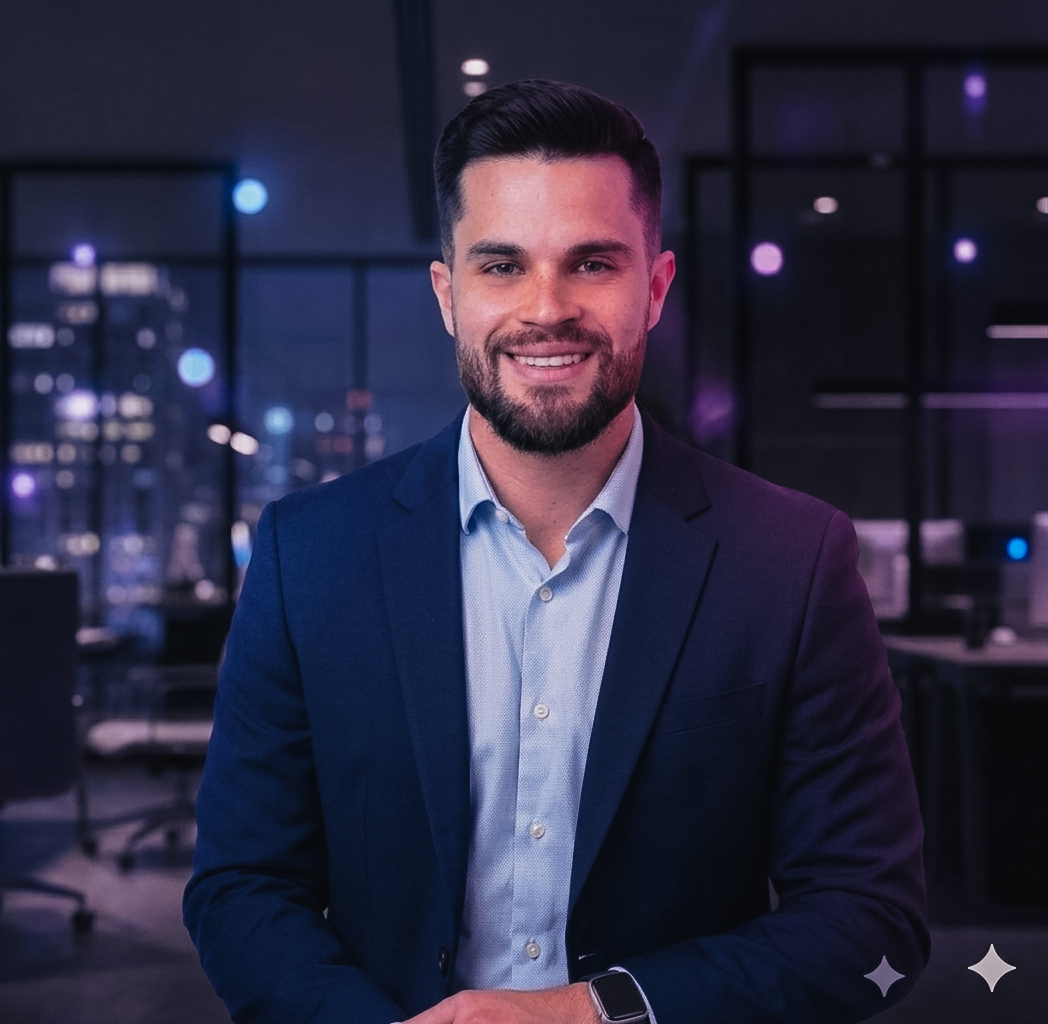
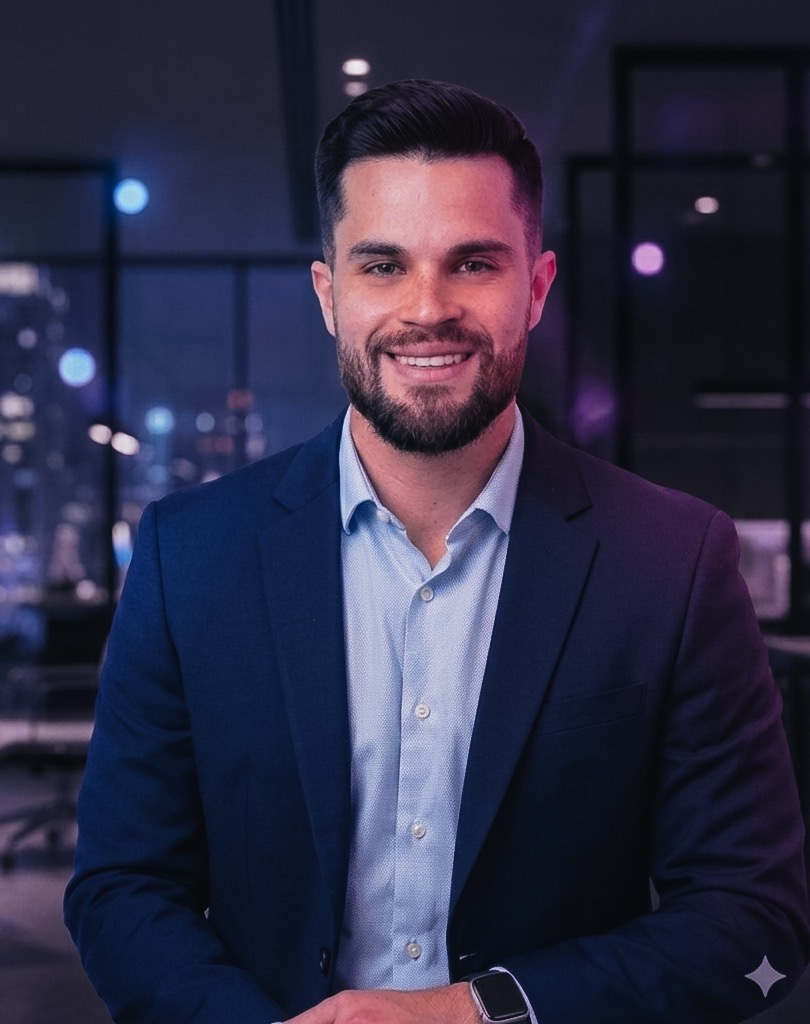
fix: recorte da image_jt_2 para mesmo aspecto retrato da image_jt

diff --git a/index.html b/index.html
@@ -1,10 +1,12 @@
 <!DOCTYPE html>
 <html lang="pt-BR">
+
 <head>
     <meta charset="UTF-8">
     <meta name="viewport" content="width=device-width, initial-scale=1.0">
     <title>João Tomás Venâncio | Portfólio</title>
-    <meta name="description" content="Product Owner e AI Engineer. Fundador da C&T.AI — construindo agentes de IA, pipelines de dados e soluções SaaS.">
+    <meta name="description"
+        content="Product Owner e AI Engineer. Fundador da C&T.AI — construindo agentes de IA, pipelines de dados e soluções SaaS.">
     <style>
         @import url('https://fonts.googleapis.com/css2?family=Inter:wght@400;500;600;700&display=swap');
 
@@ -28,7 +30,11 @@
             --hover-bg: #161b22;
         }
 
-        * { box-sizing: border-box; margin: 0; padding: 0; }
+        * {
+            box-sizing: border-box;
+            margin: 0;
+            padding: 0;
+        }
 
         body {
             font-family: 'Inter', -apple-system, BlinkMacSystemFont, sans-serif;
@@ -74,10 +80,19 @@
             background: var(--hover-bg);
         }
 
-        .ctrl-btn svg { width: 16px; height: 16px; fill: currentColor; }
+        .ctrl-btn svg {
+            width: 16px;
+            height: 16px;
+            fill: currentColor;
+        }
 
-        [data-theme="dark"] .icon-moon { display: none; }
-        :root:not([data-theme="dark"]) .icon-sun { display: none; }
+        [data-theme="dark"] .icon-moon {
+            display: none;
+        }
+
+        :root:not([data-theme="dark"]) .icon-sun {
+            display: none;
+        }
 
         /* Typography */
         h1 {
@@ -109,9 +124,13 @@
             text-decoration: none;
         }
 
-        a:hover { text-decoration: underline; }
+        a:hover {
+            text-decoration: underline;
+        }
 
-        strong { font-weight: 600; }
+        strong {
+            font-weight: 600;
+        }
 
         /* Intro with floated image */
         .intro::after {
@@ -132,7 +151,9 @@
             transition: opacity 0.3s;
         }
 
-        .profile-img:hover { opacity: 0.85; }
+        .profile-img:hover {
+            opacity: 0.85;
+        }
 
         /* Lists */
         ul {
@@ -166,7 +187,9 @@
             margin-left: 8px;
         }
 
-        .resources li:last-child::after { content: ""; }
+        .resources li:last-child::after {
+            content: "";
+        }
 
         /* Footer quote */
         .closing {
@@ -187,7 +210,9 @@
 
         /* Mobile */
         @media (max-width: 600px) {
-            body { padding: 64px 20px 60px; }
+            body {
+                padding: 64px 20px 60px;
+            }
 
             .profile-img {
                 float: none;
@@ -197,9 +222,14 @@
                 margin: 0 0 20px;
             }
 
-            h1 { font-size: 22px; }
+            h1 {
+                font-size: 22px;
+            }
 
-            .controls { top: 14px; right: 14px; }
+            .controls {
+                top: 14px;
+                right: 14px;
+            }
         }
     </style>
     <script>
@@ -209,13 +239,20 @@
         }
     </script>
 </head>
+
 <body>
 
     <div class="controls">
         <a href="index-en.html" class="ctrl-btn" title="English version">🇺🇸</a>
         <button id="theme-toggle" class="ctrl-btn" aria-label="Alternar tema">
-            <svg class="icon-sun" viewBox="0 0 24 24"><path d="M12 7c-2.76 0-5 2.24-5 5s2.24 5 5 5 5-2.24 5-5-2.24-5-5-5zM2 13h2c.55 0 1-.45 1-1s-.45-1-1-1H2c-.55 0-1 .45-1 1s.45 1 1 1zm18 0h2c.55 0 1-.45 1-1s-.45-1-1-1h-2c-.55 0-1 .45-1 1s.45 1 1 1zM11 2v2c0 .55.45 1 1 1s1-.45 1-1V2c0-.55-.45-1-1-1s-1 .45-1 1zm0 18v2c0 .55.45 1 1 1s1-.45 1-1v-2c0-.55-.45-1-1-1s-1 .45-1 1zM5.99 4.58c-.39-.39-1.03-.39-1.41 0-.39.39-.39 1.03 0 1.41l1.06 1.06c.39.39 1.03.39 1.41 0 .39-.39.39-1.03 0-1.41L5.99 4.58zm12.37 12.37c-.39-.39-1.03-.39-1.41 0-.39.39-.39 1.03 0 1.41l1.06 1.06c.39.39 1.03.39 1.41 0 .39-.39.39-1.03 0-1.41l-1.06-1.06zm1.06-10.96c.39-.39.39-1.03 0-1.41-.39-.39-1.03-.39-1.41 0l-1.06 1.06c-.39.39-.39 1.03 0 1.41.39.39 1.03.39 1.41 0l1.06-1.06zM7.05 18.36c.39-.39.39-1.03 0-1.41-.39-.39-1.03-.39-1.41 0l-1.06 1.06c-.39.39-.39 1.03 0 1.41.39.39 1.03.39 1.41 0l1.06-1.06z"/></svg>
-            <svg class="icon-moon" viewBox="0 0 24 24"><path d="M12 3c-4.97 0-9 4.03-9 9s4.03 9 9 9 9-4.03 9-9c0-.46-.04-.92-.1-1.36-.98 1.37-2.58 2.26-4.4 2.26-3.03 0-5.5-2.47-5.5-5.5 0-1.82.89-3.42 2.26-4.4-.44-.06-.9-.1-1.36-.1z"/></svg>
+            <svg class="icon-sun" viewBox="0 0 24 24">
+                <path
+                    d="M12 7c-2.76 0-5 2.24-5 5s2.24 5 5 5 5-2.24 5-5-2.24-5-5-5zM2 13h2c.55 0 1-.45 1-1s-.45-1-1-1H2c-.55 0-1 .45-1 1s.45 1 1 1zm18 0h2c.55 0 1-.45 1-1s-.45-1-1-1h-2c-.55 0-1 .45-1 1s.45 1 1 1zM11 2v2c0 .55.45 1 1 1s1-.45 1-1V2c0-.55-.45-1-1-1s-1 .45-1 1zm0 18v2c0 .55.45 1 1 1s1-.45 1-1v-2c0-.55-.45-1-1-1s-1 .45-1 1zM5.99 4.58c-.39-.39-1.03-.39-1.41 0-.39.39-.39 1.03 0 1.41l1.06 1.06c.39.39 1.03.39 1.41 0 .39-.39.39-1.03 0-1.41L5.99 4.58zm12.37 12.37c-.39-.39-1.03-.39-1.41 0-.39.39-.39 1.03 0 1.41l1.06 1.06c.39.39 1.03.39 1.41 0 .39-.39.39-1.03 0-1.41l-1.06-1.06zm1.06-10.96c.39-.39.39-1.03 0-1.41-.39-.39-1.03-.39-1.41 0l-1.06 1.06c-.39.39-.39 1.03 0 1.41.39.39 1.03.39 1.41 0l1.06-1.06zM7.05 18.36c.39-.39.39-1.03 0-1.41-.39-.39-1.03-.39-1.41 0l-1.06 1.06c-.39.39-.39 1.03 0 1.41.39.39 1.03.39 1.41 0l1.06-1.06z" />
+            </svg>
+            <svg class="icon-moon" viewBox="0 0 24 24">
+                <path
+                    d="M12 3c-4.97 0-9 4.03-9 9s4.03 9 9 9 9-4.03 9-9c0-.46-.04-.92-.1-1.36-.98 1.37-2.58 2.26-4.4 2.26-3.03 0-5.5-2.47-5.5-5.5 0-1.82.89-3.42 2.26-4.4-.44-.06-.9-.1-1.36-.1z" />
+            </svg>
         </button>
     </div>
 
@@ -224,11 +261,15 @@
     <div class="intro">
         <img id="profile-photo" src="image_jt.jpg" alt="João Tomás Venâncio" class="profile-img">
 
-        <p>Bem-vindo! Aqui você encontra um pouco sobre mim e o que tenho construído.</p>
+        <p>Bem vindo(a)! Aqui você encontra um pouco sobre mim e o que tenho construído.</p>
 
-        <p>Sou fundador da <strong>C&T.AI</strong> (Codetrade Inteligência), atuando como Product Owner e AI Engineer. Tenho expertise em modelagem de software, automação de processos, agentes de IA e ciência de dados. Construo produtos e soluções ponta a ponta para empresas que operam em ambientes de alta exigência analítica.</p>
+        <p>Sou fundador da <strong>C&T.AI</strong> (Codetrade Inteligência), atuando como Product Owner e AI Engineer.
+            Tenho expertise em modelagem de software, automação de processos, agentes de IA e ciência de dados. Construo
+            produtos e soluções ponta a ponta para empresas que operam em ambientes de alta exigência analítica.</p>
 
-        <p>Sou Bacharel em Administração (UCDB), com MBAs em Broker Global (IBMEC) e Data Science & Analytics (USP-ESALQ), certificação CPA-10, e formações complementares em liderança, dados e produto. Graduando em ADS e Engenharia de Software (Estácio). Resido em Campo Grande, MS.</p>
+        <p>Sou Bacharel em Administração (UCDB), com MBAs em Broker Global (IBMEC) e Data Science & Analytics
+            (USP-ESALQ), certificação CPA-10, e formações complementares em liderança, dados e produto. Graduando em ADS
+            e Engenharia de Software (Estácio). Resido em Campo Grande, MS.</p>
     </div>
 
     <h2>Recursos e Contato</h2>
@@ -240,35 +281,54 @@
     </ul>
 
     <h2>Inteligência Artificial e Legal Ops (2025–...)</h2>
-    <p>No <strong>Ernesto Borges Advogados</strong>, lidero iniciativas de Data, AI & Automation na divisão de Legal Operations. Meu objetivo é escalar operações jurídicas complexas através da implementação técnica de LLMs e automação.</p>
+    <p>No <strong>Ernesto Borges Advogados</strong>, lidero iniciativas de Data, AI & Automation na divisão de Legal
+        Operations. Meu objetivo é escalar operações jurídicas complexas através da implementação técnica de LLMs e
+        automação.</p>
     <ul>
-        <li><strong>RAG Jurídico:</strong> Sistema de Retrieval-Augmented Generation em produção sobre milhares de documentos internos, com ingestão, chunking e recuperação semântica utilizando Pinecone e OpenAI.</li>
-        <li><strong>Mapeamento e Redesenho de Processos:</strong> Otimização de fluxos operacionais críticos (pós-cadastro, atas de audiência, assinaturas) via RPA e arquiteturas modulares de prompts.</li>
-        <li><strong>Gestão Ágil (Legal Ops):</strong> Coordenação de entregas no Azure DevOps, conectando necessidades jurídicas, squads de tecnologia e infraestrutura de dados. Governança via KPIs e BI dashboards.</li>
+        <li><strong>RAG Jurídico:</strong> Sistema de Retrieval-Augmented Generation em produção sobre milhares de
+            documentos internos, com ingestão, chunking e recuperação semântica utilizando Pinecone e OpenAI.</li>
+        <li><strong>Mapeamento e Redesenho de Processos:</strong> Otimização de fluxos operacionais críticos
+            (pós-cadastro, atas de audiência, assinaturas) via RPA e arquiteturas modulares de prompts.</li>
+        <li><strong>Gestão Ágil (Legal Ops):</strong> Coordenação de entregas no Azure DevOps, conectando necessidades
+            jurídicas, squads de tecnologia e infraestrutura de dados. Governança via KPIs e BI dashboards.</li>
     </ul>
 
     <h2>Produtos SaaS e Agentes de IA (2024–...)</h2>
-    <p>Como Founder da <strong>C&T.AI</strong>, foco no design e implementação autônoma de soluções de dados e inteligência artificial para Startups e PMEs.</p>
+    <p>Como Founder da <strong>C&T.AI</strong>, foco no design e implementação autônoma de soluções de dados e
+        inteligência artificial para Startups e PMEs.</p>
     <ul>
-        <li><strong>Sherlock Stock (Insights):</strong> Ferramenta SaaS de análise de mercado B3. Integração com APIs financeiras para desenvolver um "moat" através de memória de usuário personalizada (React/TypeScript, Supabase e n8n).</li>
-        <li><strong>Foco:</strong> Arquitetura de banco de dados (Supabase) e UI/UX de um aplicativo de desenvolvimento pessoal centrado em técnicas de mindset de alta performance para o usuário (Agente).</li>
-        <li><strong>SDR Agents:</strong> Agentes conversacionais autônomos para WhatsApp integrados ao n8n, Z-API, OpenAI e CRMs, para qualificação ativa de leads.</li>
+        <li><strong>Sherlock Stock (Insights):</strong> Ferramenta SaaS de análise de mercado B3. Integração com APIs
+            financeiras para desenvolver um "moat" através de memória de usuário personalizada (React/TypeScript,
+            Supabase e n8n).</li>
+        <li><strong>Foco:</strong> Arquitetura de banco de dados (Supabase) e UI/UX de um aplicativo de desenvolvimento
+            pessoal centrado em técnicas de mindset de alta performance para o usuário (Agente).</li>
+        <li><strong>SDR Agents:</strong> Agentes conversacionais autônomos para WhatsApp integrados ao n8n, Z-API,
+            OpenAI e CRMs, para qualificação ativa de leads.</li>
     </ul>
 
     <h2>Mercado Financeiro e Growth (2023–2024)</h2>
-    <p>Anteriormente, apliquei análise de dados diretamente na originação de negócios e operações de trade sistemático.</p>
+    <p>Anteriormente, apliquei análise de dados diretamente na originação de negócios e operações de trade sistemático.
+    </p>
     <ul>
-        <li>Na <strong>Nelogica</strong>, liderei estratégias de Growth e LTV para o módulo de robôs, alavancando a base ativa em 4x (+7.140 traders). Criei e conduzi tecnicamente a comunidade oficial de automação (+40k membros, +80k views).</li>
-        <li>Na <strong>CM Capital</strong>, atuei como Analista de Direct Market Access (DMA), focando no desenvolvimento e integração de estratégias algorítmicas (C# DLLs) para o mercado financeiro.</li>
-        <li>Na <strong>Cubo Analítica</strong>, conduzi parcerias estratégicas e projetos de consultoria focados em dados e analytics.</li>
+        <li>Na <strong>Nelogica</strong>, liderei estratégias de Growth e LTV para o módulo de robôs, alavancando a base
+            ativa em 4x (+7.140 traders). Criei e conduzi tecnicamente a comunidade oficial de automação (+40k membros,
+            +80k views).</li>
+        <li>Na <strong>CM Capital</strong>, atuei como Analista de Direct Market Access (DMA), focando no
+            desenvolvimento e integração de estratégias algorítmicas (C# DLLs) para o mercado financeiro.</li>
+        <li>Na <strong>Cubo Analítica</strong>, conduzi parcerias estratégicas e projetos de consultoria focados em
+            dados e analytics.</li>
     </ul>
 
     <h2>Competências e Ferramentas</h2>
     <ul>
-        <li><strong>IA & Automação:</strong> n8n, LangChain, LangGraph, OpenAI API, Claude API, RAG Pipelines, Prompt Engineering, Pinecone, Supabase Vector.</li>
-        <li><strong>Desenvolvimento:</strong> Python, TypeScript, React, Node.js, SQL, PostgreSQL, REST APIs, Power Automate, C# (DLLs), Docker.</li>
-        <li><strong>Dados & Analytics:</strong> Power BI, Pandas, Machine Learning, Scikit-learn, BRAPI, B3 Market Data.</li>
-        <li><strong>Fintech & Produto:</strong> Systematic Trading (Nelogica/Profit), NTSL, DMA, Metodologias Ágeis (Scrum), Azure DevOps, Product Owner.</li>
+        <li><strong>IA & Automação:</strong> n8n, LangChain, LangGraph, OpenAI API, Claude API, RAG Pipelines, Prompt
+            Engineering, Pinecone, Supabase Vector.</li>
+        <li><strong>Desenvolvimento:</strong> Python, TypeScript, React, Node.js, SQL, PostgreSQL, REST APIs, Power
+            Automate, C# (DLLs), Docker.</li>
+        <li><strong>Dados & Analytics:</strong> Power BI, Pandas, Machine Learning, Scikit-learn, BRAPI, B3 Market Data.
+        </li>
+        <li><strong>Fintech & Produto:</strong> Systematic Trading (Nelogica/Profit), NTSL, DMA, Metodologias Ágeis
+            (Scrum), Azure DevOps, Product Owner.</li>
     </ul>
 
     <h2>Formação Acadêmica</h2>
@@ -284,16 +344,22 @@
 
     <h2>Certificações</h2>
     <ul>
-        <li><strong>Tecnologia:</strong> Python Pandas & Estatística (Alura), Data Science & ML (Alura/DNC), Power BI Avançado & GA4, Fundamentos de Big Data e Arquitetura de Software.</li>
+        <li><strong>Tecnologia:</strong> Python Pandas & Estatística (Alura), Data Science & ML (Alura/DNC), Power BI
+            Avançado & GA4, Fundamentos de Big Data e Arquitetura de Software.</li>
         <li><strong>Mercado:</strong> CPA-10 ANBIMA, Análise Técnica (Saint Paul).</li>
-        <li><strong>Liderança:</strong> Trilha Liderança 4.0 (Saint Paul – 228h), Professional Coach (SLAC – 120h), PDC-Professional DISC, Métodos Ágeis.</li>
+        <li><strong>Liderança:</strong> Trilha Liderança 4.0 (Saint Paul – 228h), Professional Coach (SLAC – 120h),
+            PDC-Professional DISC, Métodos Ágeis.</li>
     </ul>
 
     <h2>Background e Projetos Anteriores</h2>
     <p>Minha fundação une liderança, desenvolvimento de sistemas e resiliência tática.</p>
     <ul>
-        <li><strong>Carreira anterior:</strong> Assistente de Relacionamento Nível III (Nelogica, 2021–2022), Assistente PJ e Caixa (Sicoob, 2021; Uniprime, 2019), Especialista Apple B2B (iPlace, 2020), Sócio Administrador de Indústria de Cosméticos (Ana Mattos / Ybá Cosméticos, 2015–2017).</li>
-        <li><strong>Militar (2014):</strong> Aspirante a Oficial R2 da Arma de Cavalaria (20º RCB – NPOR/Exército Brasileiro). Experiência que consolidou disciplina, liderança sob pressão e tomada de decisão em cenários incertos.</li>
+        <li><strong>Carreira anterior:</strong> Assistente de Relacionamento Nível III (Nelogica, 2021–2022), Assistente
+            PJ e Caixa (Sicoob, 2021; Uniprime, 2019), Especialista Apple B2B (iPlace, 2020), Sócio Administrador de
+            Indústria de Cosméticos (Ana Mattos / Ybá Cosméticos, 2015–2017).</li>
+        <li><strong>Militar (2014):</strong> Aspirante a Oficial R2 da Arma de Cavalaria (20º RCB – NPOR/Exército
+            Brasileiro). Experiência que consolidou disciplina, liderança sob pressão e tomada de decisão em cenários
+            incertos.</li>
         <li><strong>Esportes:</strong> Nas horas vagas, busco alta performance em treinos de Triathlon e CrossFit.</li>
     </ul>
 
@@ -323,4 +389,5 @@
         }
     </script>
 </body>
+
 </html>
